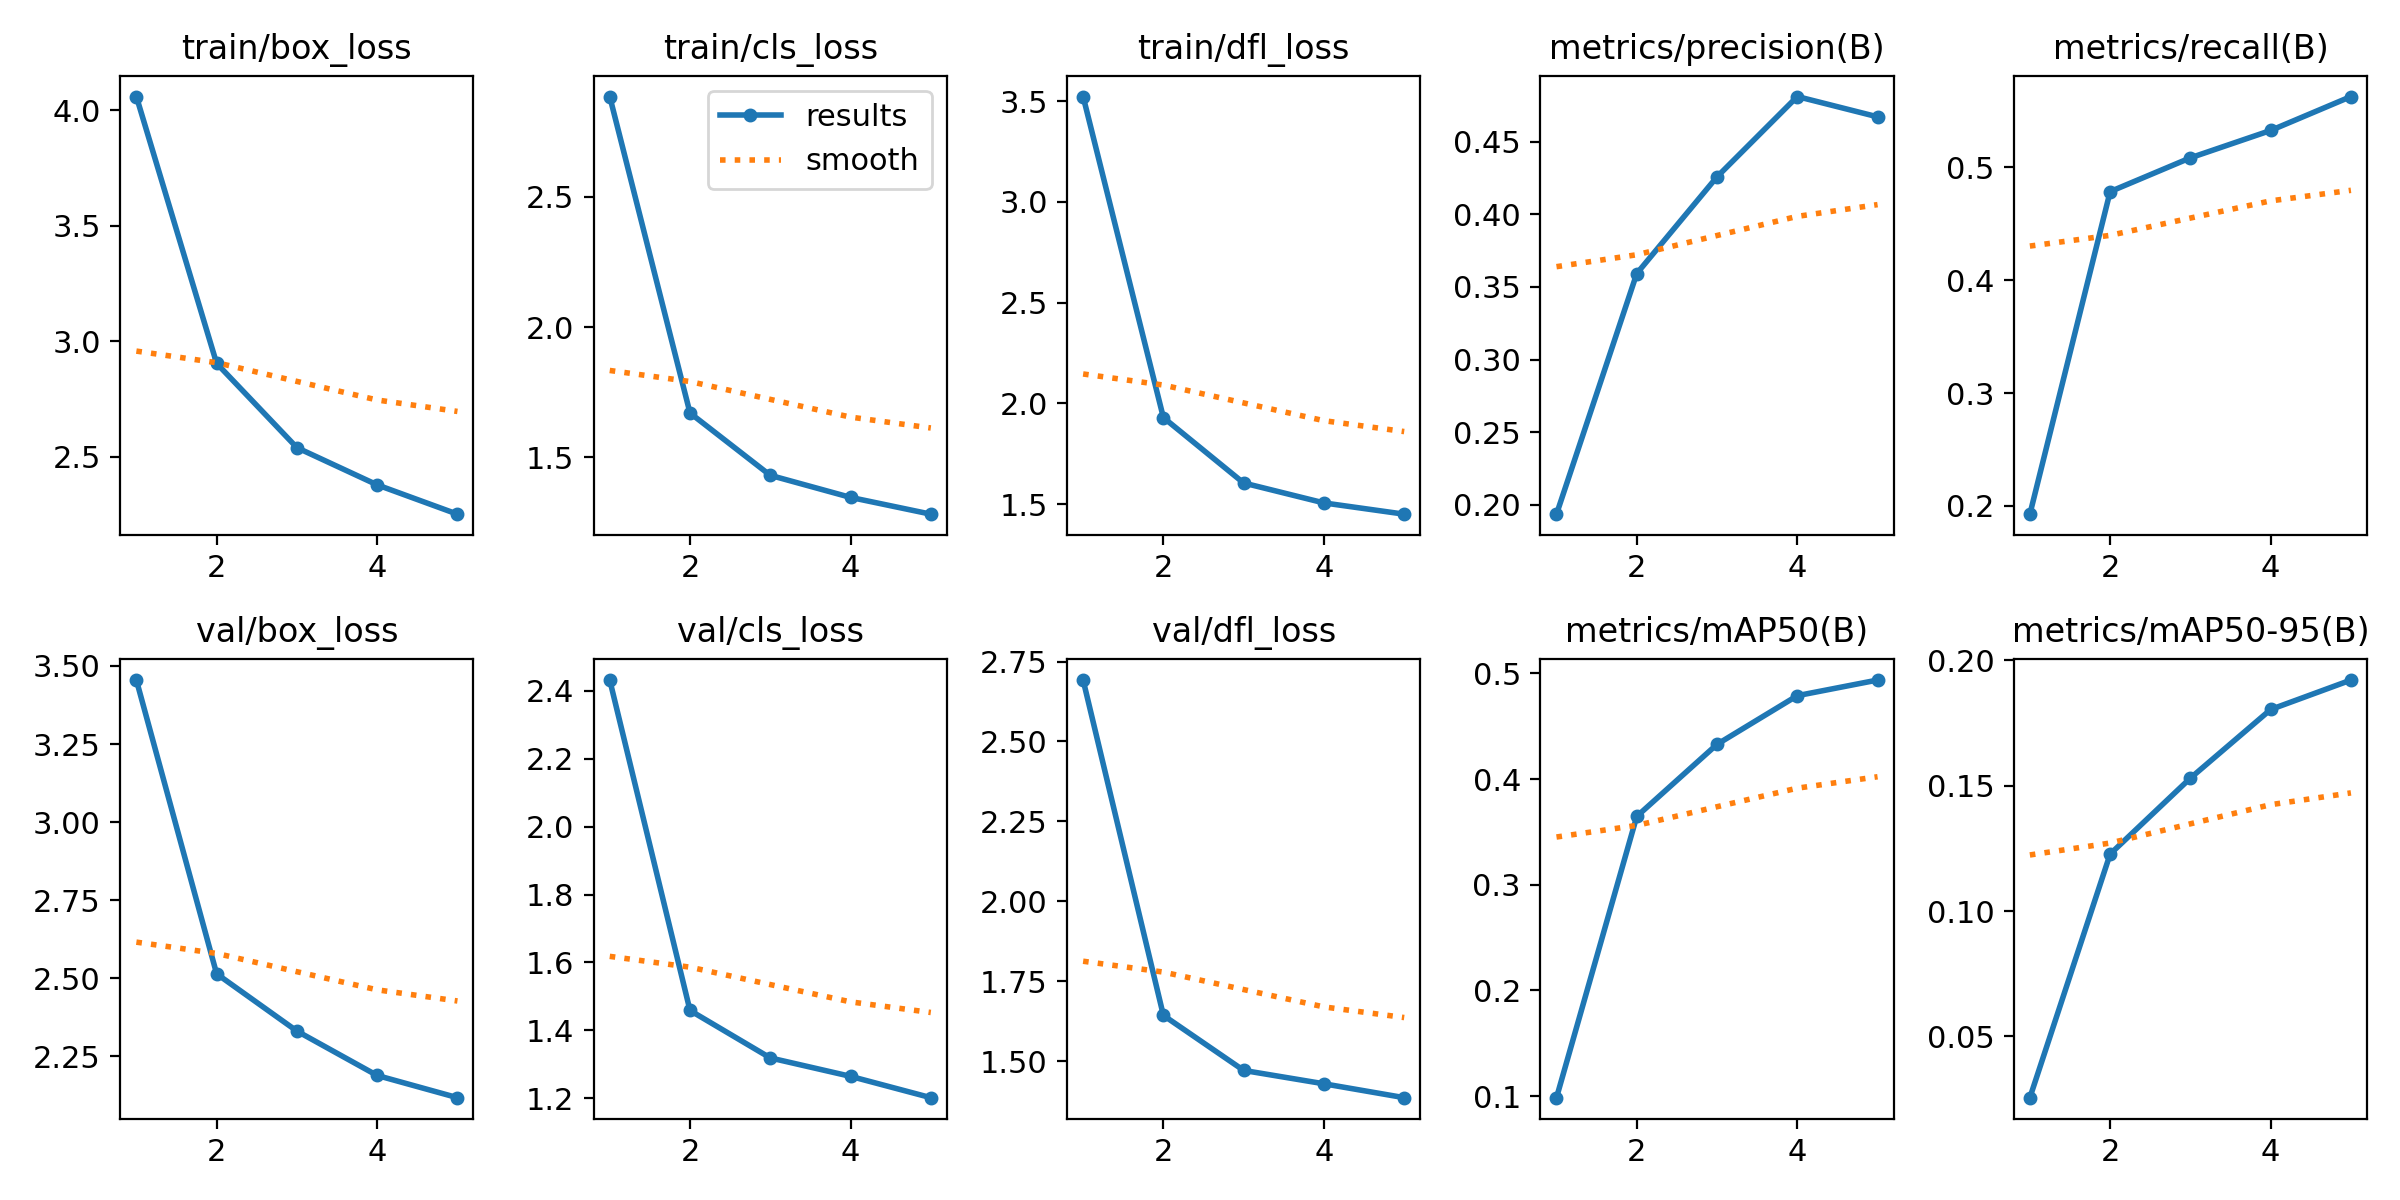
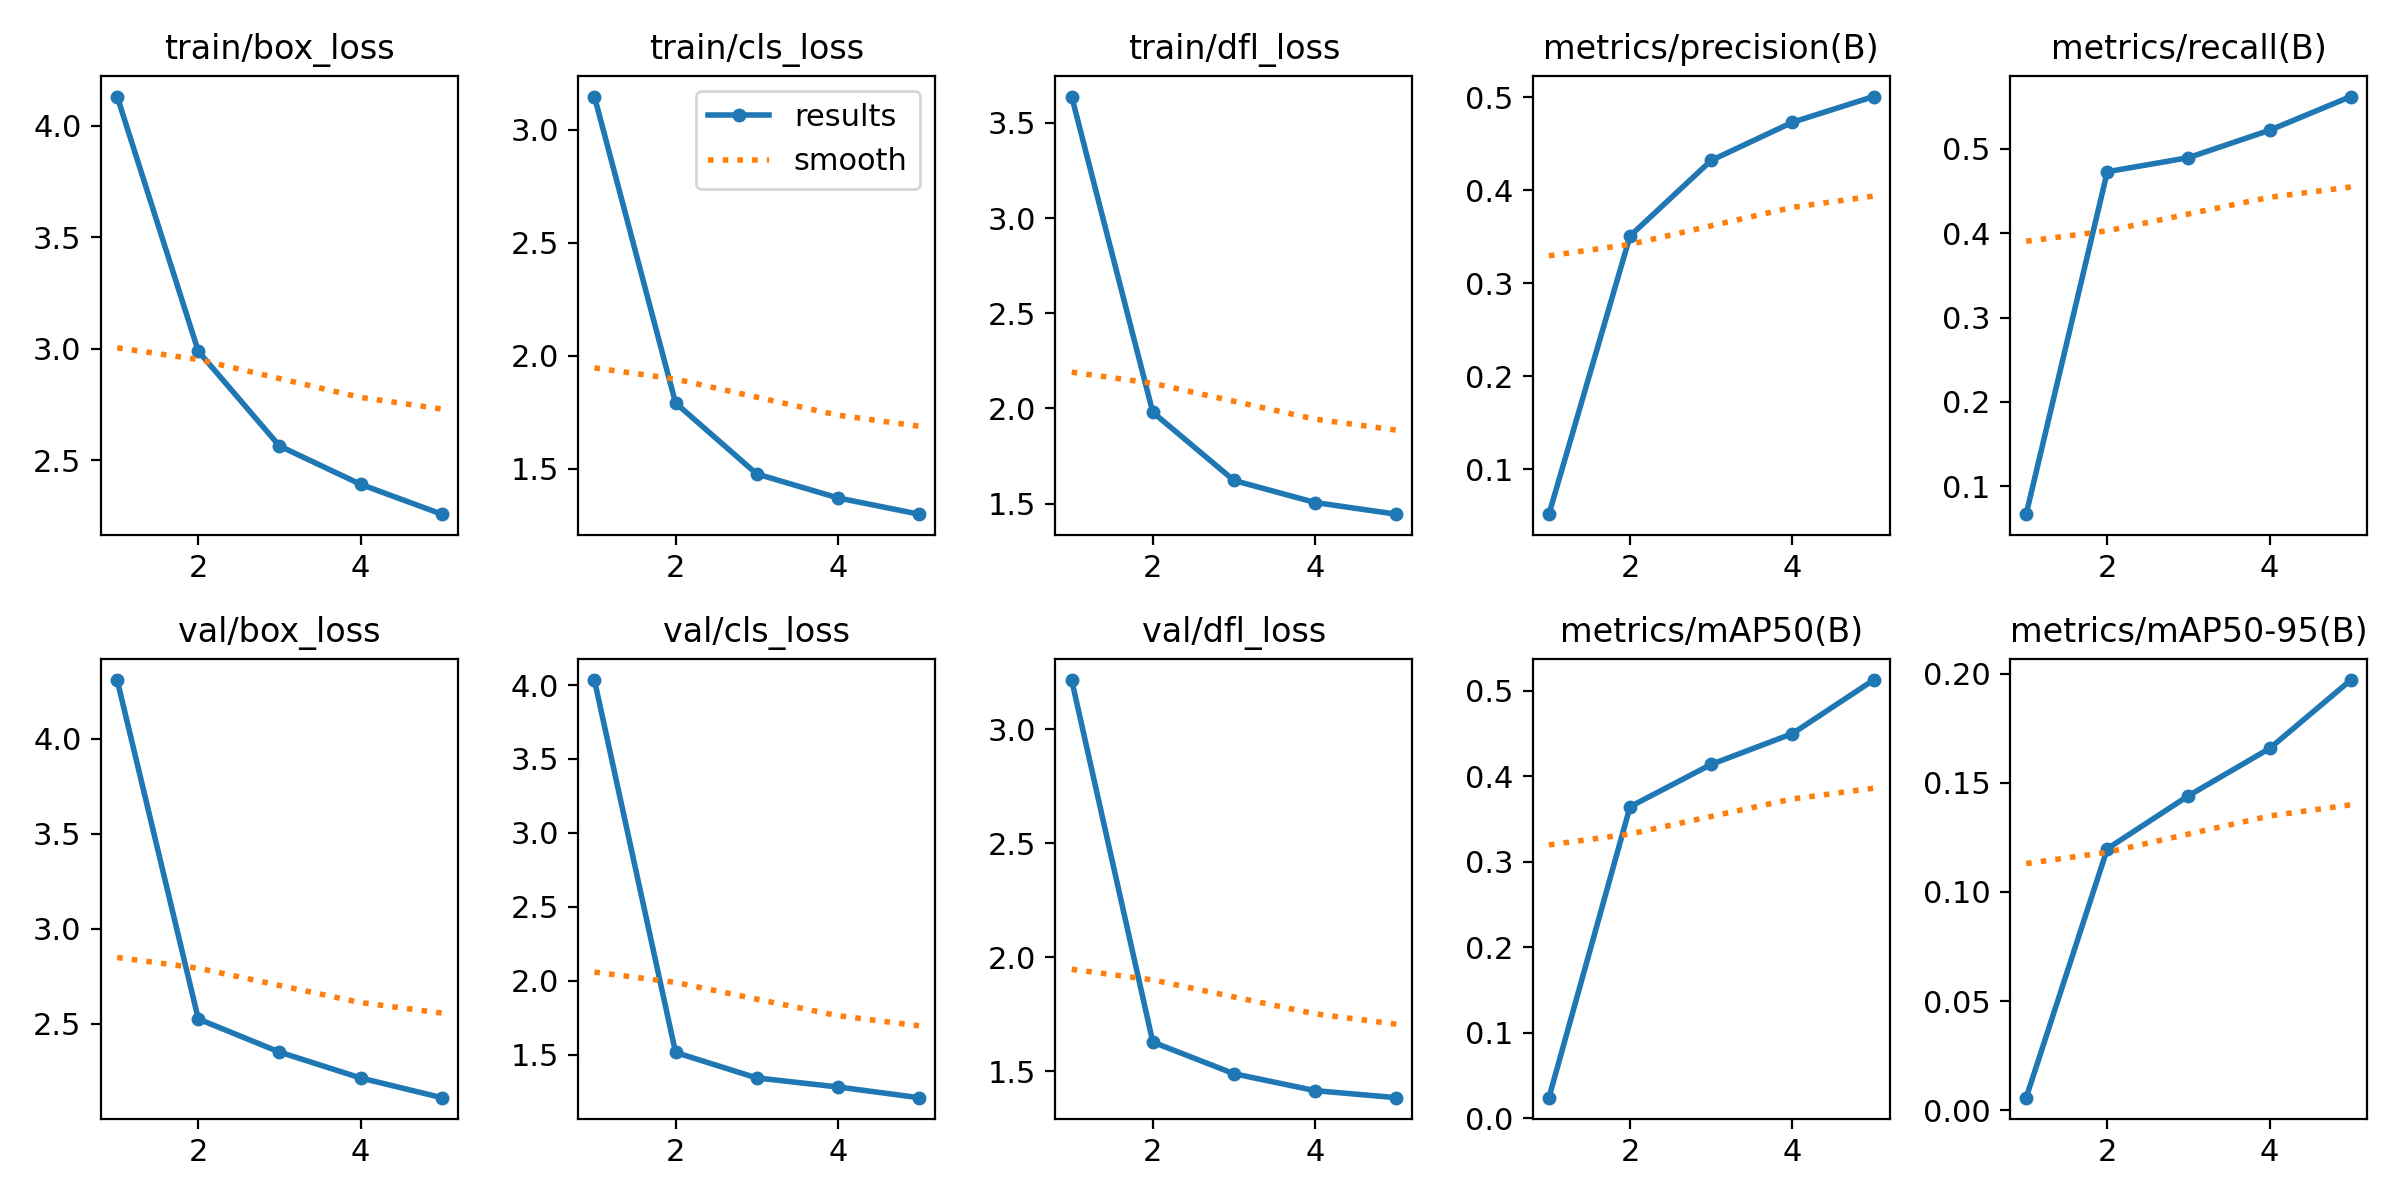
sync dashboard 20260828-130232

diff --git a/index.html b/index.html
@@ -134,7 +134,7 @@
       <article class="card"><div class="metric-label">已记录模型</div><div class="metric" id="recorded">— <small>/ —</small></div></article>
       <article class="card"><div class="metric-label">已训练完成</div><div class="metric" id="trained">—</div></article>
       <article class="card"><div class="metric-label">当前最佳 mAP50-95</div><div class="metric" id="best">—</div></article>
-      <article class="card"><div class="metric-label">失败 / OOM / 超时</div><div class="metric" id="failed">—</div></article>
+      <article class="card"><div class="metric-label">失败 / OOM / 超时 / 中断</div><div class="metric" id="failed">—</div></article>
     </section>
     <section class="card progress-card">
       <div><div class="progress-title"><span>批量实验进度</span><span id="progressText">—</span></div><div class="bar"><i id="progressBar"></i></div></div>
@@ -166,7 +166,7 @@
         document.querySelector('#modeLabel').textContent = currentMode === 'screen' ? '5轮初筛' : '100轮正式';
         document.querySelector('#recorded').innerHTML = `${d.recorded} <small>/ ${d.total}</small>`;
         document.querySelector('#trained').textContent = d.trained;
-        const failedTotal = Number(d.failed || 0) + Number(d.skipped_oom || 0) + Number(d.skipped_timeout || 0); document.querySelector('#failed').textContent = failedTotal;
+        const failedTotal = Number(d.failed || 0) + Number(d.skipped_oom || 0) + Number(d.skipped_timeout || 0) + Number(d.interrupted || 0); document.querySelector('#failed').textContent = failedTotal;
         const candidates = d.ranking.filter(x => !String(x.status).startsWith('reference') && x.map5095 !== ''); const best = candidates[0]; document.querySelector('#best').textContent = best ? pct(best.map5095) : '—';
         const done = d.recorded, total = d.total || 1, progress = Math.min(100, done / total * 100); document.querySelector('#progressBar').style.width = progress + '%'; document.querySelector('#progressText').textContent = `${done} / ${d.total} · ${progress.toFixed(1)}%`;
         const c = d.current || {}; const active = c.active === true; const phase = c.phase || '等待首批数据'; document.querySelector('#currentTitle').textContent = active ? '正在训练' : (c.model ? '训练已停止' : '等待训练'); document.querySelector('#currentModel').textContent = c.model ? (active ? c.model : `${c.model}（已停止）`) : '等待训练日志…'; document.querySelector('#currentEpoch').textContent = c.epoch !== undefined ? `epoch ${c.epoch} / ${c.total_epochs || '—'}` : (active ? phase : 'epoch —'); document.querySelector('#currentSpeed').textContent = active && c.speed_it_s ? `速度 ${Number(c.speed_it_s).toFixed(2)} it/s` : (active ? phase : '速度 —'); document.querySelector('#currentEta').textContent = active && c.eta_text && c.eta_text !== '—' ? `预计剩余 ${c.eta_text}` : (active ? '预计剩余等待首批速度' : '预计剩余 —'); document.querySelector('#currentMap').textContent = c.live_map5095 ? `mAP50-95 ${pct(c.live_map5095)}` : (active ? 'mAP50-95 待验证' : 'mAP50-95 —');
